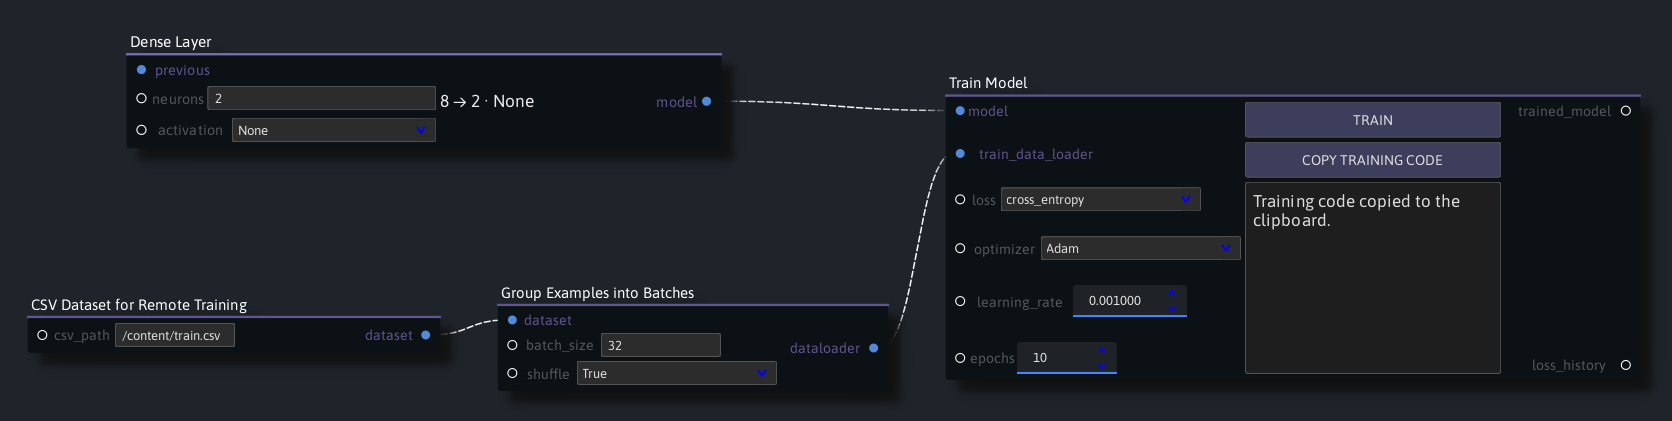
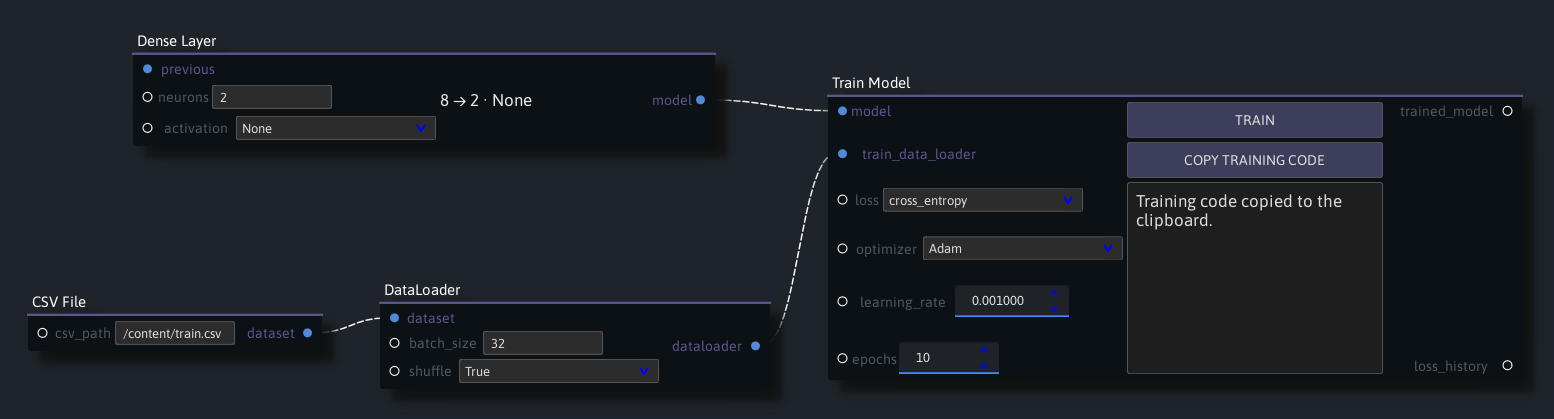
Simplify Ryven node names and add MobileNet V2

diff --git a/pytorch/tests/test_nodes.py b/pytorch/tests/test_nodes.py
@@ -172,10 +172,15 @@ class NodeTests(unittest.TestCase):
             self.assertEqual(checkpoint['model_state_dict']['2.weight'].shape, (2, 5))
 
     def test_encoder_graph_exports_image_training_with_a_custom_head(self):
+        for architecture, width, classifier in (('resnet18', 512, 'fc'), ('mobilenet_v2', 1280, 'classifier')):
+            with self.subTest(architecture=architecture):
+                self.check_encoder_export(architecture, width, classifier)
+
+    def check_encoder_export(self, architecture, width, classifier):
         with tempfile.TemporaryDirectory() as directory:
             folder = Path(directory)
             image_folder = folder / 'train'
-            encoder = self.node('ImageEncoderNode', ['resnet18', 'DEFAULT', True])
+            encoder = self.node('ImageEncoderNode', [architecture, 'DEFAULT', True])
             hidden = self.node('DenseLayerNode', [None, 4, 'ReLU'])
             output = self.node('DenseLayerNode', [None, 2, 'None'])
             images = self.node('RemoteImageFolderNode', [str(image_folder)])
@@ -186,14 +191,14 @@ class NodeTests(unittest.TestCase):
                 (images, batches, 0), (batches, trainer, 1),
             ):
                 self.flow.connect_nodes(source.outputs[0], target.inputs[index])
-            with patch('torchvision.models.resnet18', side_effect=AssertionError('Encoder loaded locally')):
+            with patch(f'torchvision.models.{architecture}', side_effect=AssertionError('Encoder loaded locally')):
                 encoder.update()
                 images.update()
                 code = trainer.export_training_code()
             self.assertFalse(image_folder.exists())
-            self.assertIn('nn.Linear(512, 4)', code)
+            self.assertIn(f'nn.Linear({width}, 4)', code)
             self.assertIn('nn.Linear(4, 2)', code)
-            self.assertIn('encoder.fc = nn.Identity()', code)
+            self.assertIn(f'encoder.{classifier} = nn.Identity()', code)
             with self.assertRaisesRegex(ValueError, 'Copy Training Code'):
                 trainer.train()
 
@@ -205,19 +210,22 @@ class NodeTests(unittest.TestCase):
             script = {'__name__': 'image_training_export'}
             exec(compile(code, '<image training export>', 'exec'), script)
             models = script['models']
-            backbone = models.resnet18(weights=None)
-            bn_mean = backbone.bn1.running_mean.clone()
+            build_encoder = getattr(models, architecture)
+            weights = models.get_model_weights(build_encoder).DEFAULT
+            backbone = build_encoder(weights=None)
+            batch_norm = next(module for module in backbone.modules() if isinstance(module, torch.nn.BatchNorm2d))
+            bn_mean = batch_norm.running_mean.clone()
             # Exercise the frozen path without fetching weights in the test.
-            with patch.object(models, 'resnet18', return_value=backbone) as constructor:
+            with patch.object(models, architecture, return_value=backbone) as constructor:
                 script['SETTINGS']['output_checkpoint'] = str(folder / 'training_result.pth')
                 script['main']()
-                constructor.assert_called_once_with(weights=models.ResNet18_Weights.DEFAULT)
+                constructor.assert_called_once_with(weights=weights)
             self.assertFalse(backbone.training)
             self.assertFalse(any(parameter.requires_grad for parameter in backbone.parameters()))
-            self.assertTrue(torch.equal(backbone.bn1.running_mean, bn_mean))
+            self.assertTrue(torch.equal(batch_norm.running_mean, bn_mean))
             checkpoint = torch.load(folder / 'training_result.pth', weights_only=True)
             self.assertEqual(checkpoint['class_names'], ['blue', 'red'])
-            self.assertEqual(checkpoint['model_state_dict']['1.weight'].shape, (4, 512))
+            self.assertEqual(checkpoint['model_state_dict']['1.weight'].shape, (4, width))
 
     def test_invalid_batch_size(self):
         node = self.node('DataLoaderNode', [torch.utils.data.TensorDataset(torch.ones(2, 1)), 0, False])

diff --git a/pytorch/nodes/training_export.py b/pytorch/nodes/training_export.py
@@ -5,7 +5,7 @@ from textwrap import dedent
 
 from torch.utils.data import DataLoader, RandomSampler, SequentialSampler, default_collate
 
-from .dense_layers import DenseModelSpec
+from .dense_layers import IMAGE_ENCODERS, DenseModelSpec
 from .learning_samples import LINEAR_DATA, XOR_DATA, sample_split
 from .torch_utils_data import RemoteBatches, RemoteCsvDataset, RemoteImageFolder
 from .train_model import LOSS_FUNCTIONS, train_model, validate_dense_model
@@ -21,7 +21,7 @@ def training_code(model, loader, loss, optimizer, learning_rate, epochs):
             raise ValueError('Connect the training batches before copying training code.')
         if (type(loader.sampler) not in (RandomSampler, SequentialSampler) or loader.batch_size is None
                 or loader.collate_fn is not default_collate or getattr(loader.sampler, 'replacement', False)):
-            raise ValueError('Use Group Examples into Batches for the portable training loader.')
+            raise ValueError('Use the DataLoader node to configure training batches.')
     if loss not in LOSS_FUNCTIONS or optimizer not in ('Adam', 'SGD', 'RMSprop', 'AdamW'):
         raise ValueError('Choose a supported loss and optimizer')
     if not isfinite(learning_rate) or learning_rate <= 0 or epochs < 1:
@@ -47,7 +47,7 @@ def dense_training_code(model, loader, settings):
     encoder = model.encoder
     if encoder:
         if not isinstance(loader, RemoteBatches) or not isinstance(loader.dataset, RemoteImageFolder):
-            raise ValueError('Connect Image Folder for Remote Training through Group Examples into Batches.')
+            raise ValueError('Connect Image Folder to the DataLoader node.')
         if settings['loss'] != 'cross_entropy':
             raise ValueError('Image folder classification uses cross entropy.')
         imports += '\nfrom torchvision import models\nfrom torchvision.datasets import ImageFolder'
@@ -58,7 +58,7 @@ def dense_training_code(model, loader, settings):
         dataset_code = ENCODER_IMAGE_DATASET
     elif isinstance(loader, RemoteBatches):
         if not isinstance(loader.dataset, RemoteCsvDataset):
-            raise ValueError('Use a CSV for dense training, or connect Image Encoder to use an image folder.')
+            raise ValueError('Connect CSV File for dense training, or add an Image Encoder to use Image Folder.')
         imports = 'import csv\nfrom array import array\n\n' + imports
         imports += ', TensorDataset'
         data_config = f'DATA_PATH = {loader.dataset.path!r}'
@@ -86,9 +86,10 @@ def dense_training_code(model, loader, settings):
     container = 'nn.Sequential'
     if encoder:
         weights = 'ENCODER_WEIGHTS' if encoder.weights == 'DEFAULT' else 'None'
+        _, classifier = IMAGE_ENCODERS[encoder.architecture]
         model_setup.extend((
             f'    encoder = models.{encoder.architecture}(weights={weights})',
-            '    encoder.fc = nn.Identity()',
+            f'    encoder.{classifier} = nn.Identity()',
         ))
         modules.append('        encoder,')
         if encoder.frozen:

diff --git a/pytorch/nodes/dense_layers.py b/pytorch/nodes/dense_layers.py
@@ -10,7 +10,13 @@ from .utils import boolean, value
 
 
 ACTIVATIONS = ('None', 'ReLU', 'LeakyReLU', 'GELU', 'Tanh', 'Sigmoid', 'Softmax')
-RESNET_FEATURES = {'resnet18': 512, 'resnet34': 512, 'resnet50': 2048}
+IMAGE_ENCODERS = {
+    # Output width after removing the original classifier, and its attribute name.
+    'resnet18': (512, 'fc'),
+    'resnet34': (512, 'fc'),
+    'resnet50': (2048, 'fc'),
+    'mobilenet_v2': (1280, 'classifier'),
+}
 ENCODER_WEIGHTS = ('DEFAULT', 'random')
 
 
@@ -117,13 +123,13 @@ class DenseLayerNode(Node):
 
 
 class ImageEncoderNode(Node):
-    """Describe a ResNet encoder for an exported image classifier. The generated
+    """Describe a torchvision encoder for an exported image classifier. The generated
     script loads the model and removes its original classifier.
     """
 
-    title = 'Image Encoder for Code Export'
+    title = 'Image Encoder'
     instructions = 'Choose an encoder, then connect Dense Layer nodes.'
-    tags = ['backbone', 'resnet', 'transfer learning']
+    tags = ['backbone', 'resnet', 'mobilenet', 'transfer learning']
     init_inputs = [
         NodeInputType(label='architecture', default=Data('resnet18')),
         NodeInputType(label='weights', default=Data('DEFAULT')),
@@ -141,8 +147,8 @@ class ImageEncoderNode(Node):
     def update_event(self, inp=-1):
         try:
             architecture = value(self, 0)
-            if not isinstance(architecture, str) or architecture not in RESNET_FEATURES:
-                raise ValueError('Choose a supported ResNet encoder.')
+            if not isinstance(architecture, str) or architecture not in IMAGE_ENCODERS:
+                raise ValueError('Choose a supported image encoder.')
             weights = value(self, 1)
             if weights not in ENCODER_WEIGHTS:
                 raise ValueError('Choose DEFAULT or random weights.')
@@ -153,7 +159,7 @@ class ImageEncoderNode(Node):
             self.set_output_val(0, Data(None))
             self.report_changed.emit(str(error))
             return
-        width = RESNET_FEATURES[architecture]
+        width, _ = IMAGE_ENCODERS[architecture]
         encoder = ImageEncoderSpec(architecture, weights, frozen)
         self.set_output_val(0, Data(DenseModelSpec(width, encoder=encoder)))
         mode = 'frozen' if frozen else 'trainable'

diff --git a/pytorch/tests/gui_smoke.py b/pytorch/tests/gui_smoke.py
@@ -111,6 +111,7 @@ for filename, expected in (
     project = Path(__file__).resolve().parents[1] / filename
     demo, = session.load(json.loads(project.read_text(encoding='utf-8')))
     for node in demo.nodes:
+        assert node.gui.display_title == node.title
         if isinstance(node, types['SampleDatasetNode']):
             node.gui.main_widget().load_button.click()
     trainer, = (node for node in demo.nodes if isinstance(node, (types['TrainModelNode'], types['TrainVAENode'])))
@@ -119,7 +120,26 @@ for filename, expected in (
     code = app.clipboard().text()
     assert expected in code, trainer.gui.main_widget().status_box.toPlainText()
     compile(code, filename, 'exec')
+    if filename == 'five_class_demo.json':
+        encoder, = (node for node in demo.nodes if isinstance(node, types['ImageEncoderNode']))
+        encoder.gui.input_widget(0).setCurrentText('mobilenet_v2')
+        trainer.gui.main_widget().copy_code_button.click()
+        code = app.clipboard().text()
+        assert 'encoder.classifier = nn.Identity()' in code
+        assert 'nn.Linear(1280, 32)' in code
     session.delete_flow(demo)
+
+project = Path(__file__).resolve().parents[1] / 'linear_demo.json'
+legacy_project = json.loads(project.read_text(encoding='utf-8'))
+flow_data, = legacy_project['flows'].values()
+batch_settings = [node for node in flow_data['nodes'] if node['identifier'].endswith('.DataLoaderNode')]
+batch_settings[0]['display title'] = 'Group Examples into Batches'
+batch_settings[1]['display title'] = 'Held-out batches'
+demo, = session.load(legacy_project)
+assert [node.gui.display_title for node in demo.nodes if isinstance(node, types['DataLoaderNode'])] == [
+    'DataLoader', 'Held-out batches',
+]
+session.delete_flow(demo)
 assert not errors, errors
 print('All four saved graphs opened and copied training code', flush=True)
 print('GUI SMOKE TEST PASSED', flush=True)

diff --git a/pytorch/nodes/gui.py b/pytorch/nodes/gui.py
@@ -16,6 +16,23 @@ from . import train_model as train_model_nodes
 
 class PyTorchGuiBase(NodeGUI):
     color = '#5e548e'
+    previous_titles = {
+        'DataLoader': ('Group Examples into Batches',),
+        'CSV File': ('CSV Dataset', 'CSV Dataset for Remote Training'),
+        'Image Folder': ('ImageFolder', 'Image Folder for Remote Training'),
+        'Fashion-MNIST': ('Fashion-MNIST for Remote Training',),
+        'Image Encoder': ('ResNet Encoder', 'Image Encoder for Code Export'),
+        'Sample Dataset': ('Load Sample Data',),
+        'Test Model': ('Check Test Performance',),
+        'VAE Latent Layer': ('Variational Latent',),
+    }
+
+    def load(self, data):
+        previous = self.previous_titles.get(self.node.title, ())
+        if data.get('display title') in previous:
+            data = {**data, 'display title': self.node.title}
+        super().load(data)
+
 
 def combo_box(items: list, init_index: int = 0, descr: str = ''):
     """Custom combo box widget with global popup, styled like QComboBox."""
@@ -349,7 +366,7 @@ class ImageEncoderNodeGui(PyTorchGuiBase):
     main_widget_class = NodeReportMainWidget
     main_widget_pos = 'between ports'
     input_widget_classes = {
-        'architecture': combo_box(list(dense_layers.RESNET_FEATURES), descr='ResNet to load in the generated script'),
+        'architecture': combo_box(list(dense_layers.IMAGE_ENCODERS), descr='Model to load in the generated script'),
         'weights': combo_box(list(dense_layers.ENCODER_WEIGHTS), descr='Pretrained or random initialization'),
         'freeze': combo_box(['True', 'False'], descr='Keep the encoder weights fixed during training'),
     }

diff --git a/pytorch/nodes/torch_utils_data.py b/pytorch/nodes/torch_utils_data.py
@@ -34,7 +34,7 @@ RemoteCsvBatches = RemoteBatches
 class RemoteCsvDatasetNode(Node):
     """Specify a CSV path on the training machine. Ryven does not open the file."""
 
-    title = 'CSV Dataset for Remote Training'
+    title = 'CSV File'
     init_inputs = [NodeInputType(label='csv_path', default=Data('train.csv'))]
     init_outputs = [NodeOutputType(label='dataset')]
 
@@ -50,7 +50,7 @@ class RemoteCsvDatasetNode(Node):
 class RemoteImageFolderNode(Node):
     """Specify a folder with one subfolder per class on the training machine."""
 
-    title = 'Image Folder for Remote Training'
+    title = 'Image Folder'
     init_inputs = [NodeInputType(label='image_folder', default=Data('train'))]
     init_outputs = [NodeOutputType(label='dataset')]
 
@@ -66,7 +66,7 @@ class RemoteImageFolderNode(Node):
 class FashionMNISTNode(Node):
     """Download the training and test splits of Fashion-MNIST when the exported script runs."""
 
-    title = 'Fashion-MNIST for Remote Training'
+    title = 'Fashion-MNIST'
     init_inputs = [NodeInputType(label='data_root', default=Data('fashion-mnist-data'))]
     init_outputs = [NodeOutputType(label='dataset')]
 
@@ -83,7 +83,7 @@ class DataLoaderNode(Node):
     """Group a dataset into batches so the model can process several examples at once.
     Shuffling changes their order. Training and test datasets are grouped separately.
     """
-    title = "Group Examples into Batches"
+    title = "DataLoader"
     tags = ['dataloader', 'batch size']
     init_inputs = [
         NodeInputType(label="dataset"),

diff --git a/pytorch/nodes/vae_export.py b/pytorch/nodes/vae_export.py
@@ -9,12 +9,12 @@ from .training_export import dense_module_lines
 
 def vae_training_code(model, loader, learning_rate, epochs, kl_weight):
     if not isinstance(model, DenseModelSpec) or model.vae_encoder is None or not model.layers:
-        raise ValueError('Connect the last decoder layer from a Variational Latent node.')
+        raise ValueError('Connect the last decoder layer from a VAE Latent Layer node.')
     encoder = model.vae_encoder
     if encoder.input_features != 784 or model.layers[-1] != (784, 'None'):
         raise ValueError('Use 784 input features and a final decoder layer of 784 neurons with no activation.')
     if not isinstance(loader, RemoteBatches) or not isinstance(loader.dataset, RemoteFashionMNIST):
-        raise ValueError('Connect Fashion-MNIST through Group Examples into Batches.')
+        raise ValueError('Connect Fashion-MNIST through DataLoader.')
     if not isfinite(learning_rate) or learning_rate <= 0 or epochs < 1:
         raise ValueError('Learning rate and epochs must be positive.')
     if not isfinite(kl_weight) or kl_weight < 0:

diff --git a/pytorch/nodes/learning_samples.py b/pytorch/nodes/learning_samples.py
@@ -26,7 +26,7 @@ class SampleDatasetNode(Node):
     The two point datasets share the same features and differ in their labeling rule.
     """
 
-    title = 'Load Sample Data'
+    title = 'Sample Dataset'
     instructions = 'Choose a dataset, then load the examples.'
     options = (LINEAR_DATA, XOR_DATA)
     init_inputs = [NodeInputType(label='sample', default=Data(LINEAR_DATA))]

diff --git a/pytorch/nodes/test_model.py b/pytorch/nodes/test_model.py
@@ -10,7 +10,7 @@ class TestModelNode(Node):
     whose predicted class matches the label. Testing leaves the model weights fixed.
     """
 
-    title = "Check Test Performance"
+    title = "Test Model"
     tags = ['test model', 'test accuracy']
     instructions = 'Waiting for model and test batches'
     init_inputs = [NodeInputType(label="model"),

diff --git a/pytorch/nodes/vae.py b/pytorch/nodes/vae.py
@@ -10,7 +10,7 @@ class VariationalLatentNode(Node):
     variance for each latent dimension and samples a vector for the decoder.
     """
 
-    title = 'Variational Latent'
+    title = 'VAE Latent Layer'
     instructions = 'Connect the last dense encoder layer.'
     init_inputs = [
         NodeInputType(label='encoder'),

diff --git a/docs/Guide.md b/docs/Guide.md
@@ -39,12 +39,14 @@ The pinned PySide2 version uses Python 3.10. [Python 3.10 release notes](https:/
 ## Export and train in Colab
 
 1. Add **Train Model** and connect the last **Dense Layer** to its **model** input.
-2. Add **CSV Dataset for Remote Training** and set **csv_path** to `/content/train.csv`. Connect its **dataset** output to **Group Examples into Batches**, then connect **dataloader** to **train_data_loader** on **Train Model**. Ryven uses the CSV path without opening the file.
+2. Add **CSV File** and set **csv_path** to `/content/train.csv`. Connect its **dataset** output to **DataLoader**, then connect **dataloader** to **train_data_loader** on **Train Model**. Ryven uses the CSV path without opening the file.
 3. Set **batch_size** to `32` and **shuffle** to **True**. In **Train Model**, select **cross_entropy**, **Adam**, a learning rate of `0.001`, and `10` epochs. Click **Copy Training Code**.
 
    ![Ryven graph connecting remote CSV batches and the final dense layer to Train Model, with the clipboard confirmation visible](images/ryven-copy-training-code.png)
 
 4. In Colab, upload `train.csv` to `/content`, paste the copied code into a cell, and run it. You can change `DATA_PATH` in the script if the file is somewhere else. The script loads the data on the training machine, uses CUDA when available, reports loss by epoch, and writes `training_result.pth`.
+
+The exported script uses the batch size and shuffle settings from the **DataLoader** node to create a PyTorch `DataLoader`.
 
 Use a header row, numeric feature columns first, and the target column last. For cross entropy, labels are zero-based integers. This small CSV exercises the two-feature, two-class example above.
 
@@ -60,19 +62,19 @@ The exported script loads the CSV into the training machine's memory. The same s
 
 For regression or other losses that take numeric targets, use one target column per output neuron.
 
-To try the workflow with bundled data, replace the CSV node with **Load Sample Data**, then choose **Linear boundary** or **XOR quadrants**. Click **Load Examples** before exporting. The generated script includes the data generator. You can also click **Train** in Ryven. The linear preset connects a separate test split to **Check Test Performance**.
+To try the workflow with bundled data, replace the CSV node with **Sample Dataset**, then choose **Linear boundary** or **XOR quadrants**. Click **Load Examples** before exporting. The generated script includes the data generator. You can also click **Train** in Ryven. The linear preset connects a separate test split to **Test Model**.
 
 ## Build a Fashion-MNIST VAE
 
-Open the [Fashion-MNIST VAE preset](Presets.md#what-the-fashion-mnist-vae-learns) to see the wiring. Connect **Dense Input → Dense Layer(s) → Variational Latent → Dense Layer(s) → Train VAE**. Set the input to 784 features and the final decoder layer to 784 neurons with activation **None**. The script flattens the images before encoding, reshapes the decoder outputs, and computes the reconstruction loss from the raw pixel logits.
+Open the [Fashion-MNIST VAE preset](Presets.md#what-the-fashion-mnist-vae-learns) to see the wiring. Connect **Dense Input → Dense Layer(s) → VAE Latent Layer → Dense Layer(s) → Train VAE**. Set the input to 784 features and the final decoder layer to 784 neurons with activation **None**. The script flattens the images before encoding, reshapes the decoder outputs, and computes the reconstruction loss from the raw pixel logits.
 
-Connect **Fashion-MNIST for Remote Training → Group Examples into Batches → Train VAE**. Try changing the encoder width or the number of latent dimensions. **Train VAE** controls the learning rate, epochs, and how much the KL divergence contributes to the training loss. Click **Copy Training Code** and run it in Colab.
+Connect **Fashion-MNIST → DataLoader → Train VAE**. Try changing the encoder width or the number of latent dimensions. **Train VAE** controls the learning rate, epochs, and how much the KL divergence contributes to the training loss. Click **Copy Training Code** and run it in Colab.
 
 ## Build an image classifier
 
-1. Add **Image Encoder for Code Export** and choose **resnet18**, **resnet34**, or **resnet50**. **DEFAULT** weights with **freeze** set to **True** keep the pretrained encoder fixed. Ryven stores these settings in the graph. The generated script creates the encoder and fetches the weights on the training machine.
+1. Add **Image Encoder** and choose **resnet18**, **resnet34**, **resnet50**, or **mobilenet_v2**. **DEFAULT** weights with **freeze** set to **True** keep the pretrained encoder fixed. Ryven stores these settings in the graph. The generated script creates the encoder and fetches the weights on the training machine.
 2. Connect the encoder's **architecture** output to **previous** on a **Dense Layer**. Add as many dense layers as needed. For two classes, try **64 neurons, ReLU → 2 neurons, None**. Connect the last layer's **model** output to **Train Model** and use **cross_entropy**.
-3. Connect **Image Folder for Remote Training → Group Examples into Batches → Train Model**. Set **image_folder** to a path such as `/content/train` with one subfolder per class. Set the last layer's neuron count to the number of class folders. The digits and weed presets point to the bundled training folders. To run the script elsewhere, upload the preset's `train` folder and update `DATA_PATH`. The sibling `test` folder contains held-out images.
+3. Connect **Image Folder → DataLoader → Train Model**. Set **image_folder** to a path such as `/content/train` with one subfolder per class. Set the last layer's neuron count to the number of class folders. The digits and weed presets point to the bundled training folders. To run the script elsewhere, upload the preset's `train` folder and update `DATA_PATH`. The sibling `test` folder contains held-out images.
 4. Click **Copy Training Code** and run it in Colab with the image folder available. The script applies the encoder's preprocessing, loads images in batches, and saves the class names with the weights in `training_result.pth`.
 
 The digits images are a subset of the [UCI Optical Recognition of Handwritten Digits dataset](https://archive.ics.uci.edu/dataset/80/optical%2Brecognition%2Bof%2Bhandwritten%2Bdigits) distributed under [CC BY 4.0](https://creativecommons.org/licenses/by/4.0/). The weed photos come from the [DeepWeeds teaching subset](../pytorch/demo_data/deepweeds/README.md).
@@ -100,7 +102,7 @@ flowchart LR
 | [`vae.py`](../pytorch/nodes/vae.py) and [`vae_export.py`](../pytorch/nodes/vae_export.py) | Connect the encoder and decoder through a variational latent layer and export Fashion-MNIST training and image previews. |
 | [`gui.py`](../pytorch/nodes/gui.py) and [`test_model.py`](../pytorch/nodes/test_model.py) | Provide the node controls and clipboard action, run local training in a Qt worker, and score a trained model on held-out local batches. |
 
-The image encoder is a configuration value while the graph is open. The exported script constructs the ResNet, replaces its classifier with an identity layer, and appends the user's dense layers. A frozen encoder stays in evaluation mode during training so its batch-normalization statistics stay fixed.
+The image encoder is a configuration value while the graph is open. The exported script constructs the selected torchvision model, replaces its classifier with an identity layer, and appends the user's dense layers. A frozen encoder stays in evaluation mode during training so its batch-normalization statistics stay fixed.
 
 ## Change a node or export
 

diff --git a/docs/Presets.md b/docs/Presets.md
@@ -22,13 +22,13 @@ To open another preset, pass its project file to `open.sh`.
 
 ## Run a preset
 
-- **Linear classification** — Click **Load Examples**, then **Train**. **Check Test Performance** reports accuracy on held-out examples. Click **Copy Training Code** to run the same graph in Colab.
+- **Linear classification** — Click **Load Examples**, then **Train**. **Test Model** reports accuracy on held-out examples. Click **Copy Training Code** to run the same graph in Colab.
 - **Fashion-MNIST VAE** — Click **Copy Training Code** on **Train VAE**. Paste it into a Colab cell and run it. The script downloads Fashion-MNIST where it runs and uses CUDA if available.
 - **Five-class digits and weed photos** — Click **Copy Training Code**. Run the script from the repository root to use the bundled training images. In Colab, upload the preset's training folder and update `DATA_PATH`. [Image classifier walkthrough](Guide.md#build-an-image-classifier)
 
 ### What the Fashion-MNIST VAE learns
 
-Each 28 × 28 grayscale clothing image goes through a 128-neuron ReLU encoder. **Variational Latent** learns a mean and log variance for each of eight latent values, then samples a vector for the decoder. The decoder uses another 128-neuron ReLU layer and returns 784 pixel logits. Training uses the images as reconstruction targets. [Fashion-MNIST dataset](https://github.com/zalandoresearch/fashion-mnist)
+Each 28 × 28 grayscale clothing image goes through a 128-neuron ReLU encoder. **VAE Latent Layer** learns a mean and log variance for each of eight latent values, then samples a vector for the decoder. The decoder uses another 128-neuron ReLU layer and returns 784 pixel logits. Training uses the images as reconstruction targets. [Fashion-MNIST dataset](https://github.com/zalandoresearch/fashion-mnist)
 
 The script reports reconstruction loss and KL divergence for training and for the held-out test split. Open `fashion_mnist_vae.png` to see the original test images in the top row, their reconstructions in the middle row, and new samples in the bottom row. The trained weights and losses are saved in `fashion_mnist_vae.pth`.
 
